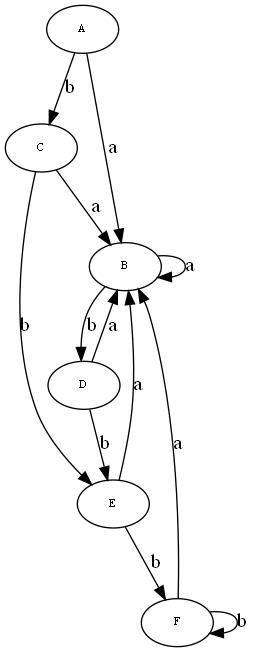
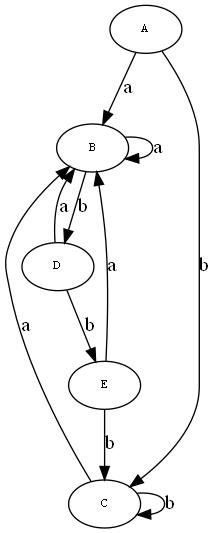
Bug fixing

diff --git a/RegularExpression.rb b/RegularExpression.rb
@@ -232,7 +232,7 @@ class RegularExpression
   end
 
   def create_subset
-    states = @afn.eclosure(@afn.states_id).sort
+    states = @afn.eclosure(@afn.starting_states_id).sort.uniq
     possible_names = ("A".."Z").to_a
     names = ["A"]
     afd_states = [states]
@@ -244,8 +244,8 @@ class RegularExpression
       state_to_check = are_marked.find_index{ |state| state == false }
       are_marked[state_to_check] = true
       @symbols.each do |symbol|
-        c_states = @afn.eclosure(@afn.move(afd_states[state_to_check], symbol.to_s)).sort
-        unless afd_states.include?(c_states)
+        c_states = @afn.eclosure(@afn.move(afd_states[state_to_check], symbol.to_s)).sort.uniq
+        unless afd_states.include?(c_states) || c_states == []
           names << possible_names[afd_states.length]
           afd_states << c_states
           are_marked << false
@@ -253,7 +253,7 @@ class RegularExpression
           are_final << share_elements(c_states, @afn.final_states_id)
         end
         name = afd_states.find_index{ |state| state == c_states }
-        transition[[names[state_to_check], symbol.to_s]] = names[name]
+        (transition[[names[state_to_check], symbol.to_s]] = names[name]) if c_states != []
       end
     end
     @afd = create_afd(names, are_initial, are_final, transition)

diff --git a/test1.rb b/test1.rb
@@ -11,14 +11,14 @@ def create_graph(graph, names, file_name)
   dg.write_to_graphic_file('jpg', file_name, dot_options)
 end
 
-string_to_check = 'abb'
+string_to_check = 'ab'
 reg_ex = RegularExpression.new("(a|b)*abb")
 
 time_afn = Benchmark.realtime {
   reg_ex.create_thompson
   reg_ex.check_string(string_to_check)
 }
-puts time_afn
+# puts time_afn
 graph, names = reg_ex.graph_afn
 create_graph(graph, names, 'graph')
 
@@ -30,10 +30,10 @@ puts time_subset
 graph, names = reg_ex.graph_subset
 create_graph(graph, names, 'graph_subset')
 
-# time_direct = Benchmark.realtime {
-#   reg_ex.create_direct
-#   reg_ex.check_string_direct(string_to_check)
-# }
-# puts time_direct
-# graph, names = reg_ex.graph_direct
-# create_graph(graph, names, 'graph_direct')
+time_direct = Benchmark.realtime {
+  reg_ex.create_direct
+  reg_ex.check_string_direct(string_to_check)
+}
+puts time_direct
+graph, names = reg_ex.graph_direct
+create_graph(graph, names, 'graph_direct')
